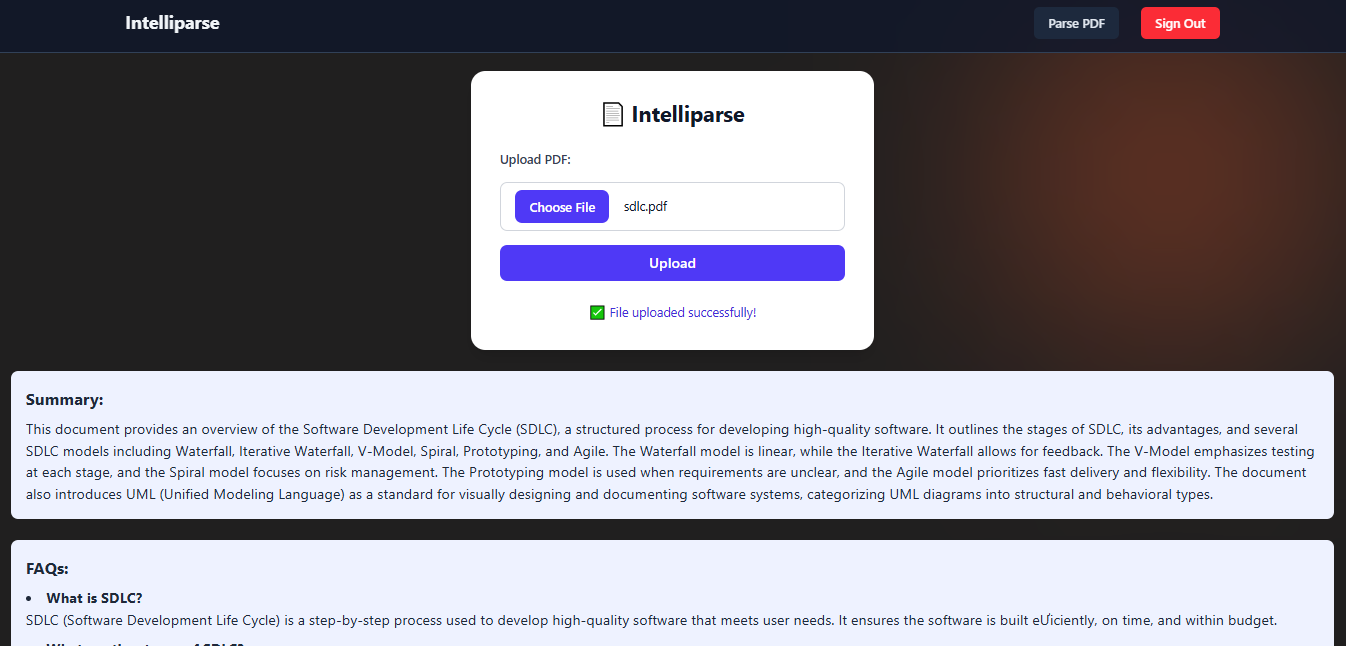
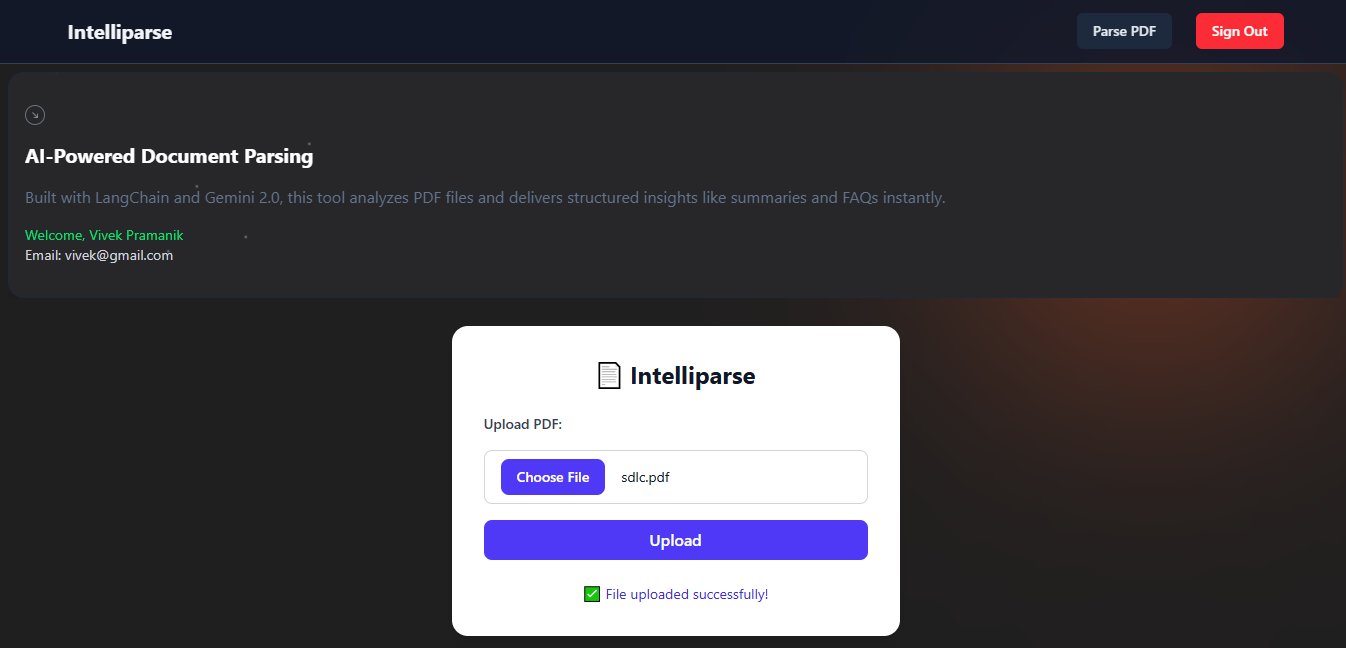
refactor: accessing user detaills from frontend

diff --git a/frontend/src/MeteorsDemo.jsx b/frontend/src/MeteorsDemo.jsx
@@ -1,44 +1,69 @@
-import React from "react";
+import React, { useEffect, useState } from "react";
+import axios from "axios";
 import { Meteors } from "./Meteors";
 
+axios.defaults.withCredentials = true; // Send cookies in every request
+
 export function MeteorsDemo() {
+  const [profile, setProfile] = useState(null);
+  const [error, setError] = useState("");
+
+  useEffect(() => {
+    // Fetch profile on mount
+    const fetchProfile = async () => {
+      try {
+        const res = await axios.get("http://localhost:3000/api/profile"); // Update port if needed
+        setProfile(res.data);
+      } catch (err) {
+        setError("You are not logged in");
+        console.error(err);
+      }
+    };
+
+    fetchProfile();
+  }, []);
+
   return (
     <div className="">
       <div className="relative m-2">
-        <div
-          className="absolute inset-0 h-full w-full scale-[0.80] transform rounded-full bg-red-500 bg-gradient-to-r from-blue-500 to-teal-500 blur-3xl" />
-        <div
-          className="relative flex h-full flex-col items-start justify-end overflow-hidden rounded-2xl border border-gray-800 bg-gray-900 px-4 py-8 shadow-xl">
-          <div
-            className="mb-4 flex h-5 w-5 items-center justify-center rounded-full border border-gray-500">
+        <div className="absolute inset-0 h-full w-full scale-[0.80] transform rounded-full bg-red-500 bg-gradient-to-r from-blue-500 to-teal-500 blur-3xl" />
+        <div className="relative flex h-full flex-col items-start justify-end overflow-hidden rounded-2xl border border-gray-800 bg-zinc-800 px-4 py-8 shadow-xl">
+          <div className="mb-4 flex h-5 w-5 items-center justify-center rounded-full border border-gray-500">
             <svg
               xmlns="http://www.w3.org/2000/svg"
               fill="none"
               viewBox="0 0 24 24"
               strokeWidth="1.5"
               stroke="currentColor"
-              className="h-2 w-2 text-gray-300">
+              className="h-2 w-2 text-gray-300"
+            >
               <path
                 strokeLinecap="round"
                 strokeLinejoin="round"
-                d="M4.5 4.5l15 15m0 0V8.25m0 11.25H8.25" />
+                d="M4.5 4.5l15 15m0 0V8.25m0 11.25H8.25"
+              />
             </svg>
           </div>
 
           <h1 className="relative z-50 mb-4 text-xl font-bold text-white">
-              AI-Powered Document Parsing
+            AI-Powered Document Parsing
           </h1>
 
           <p className="relative z-50 mb-4 text-base font-normal text-slate-500">
-             Built with LangChain and Gemini 2.0, this tool analyzes PDF files and delivers structured insights like summaries and FAQs instantly.
+            Built with LangChain and Gemini 2.0, this tool analyzes PDF files
+            and delivers structured insights like summaries and FAQs instantly.
           </p>
 
-          {/* <button className="rounded-lg border border-gray-500 px-4 py-1 text-gray-300">
-            Explore
-          </button> */}
+          {profile ? (
+            <div className="text-white">
+              <p className="text-sm text-green-400">Welcome, {profile.firstname} {profile.lastname}</p>
+              <p className="text-sm text-gray-300">Email: {profile.email}</p>
+            </div>
+          ) : (
+            <p className="text-sm text-red-400">{error}</p>
+          )}
 
-          {/* Meaty part - Meteor effect */}
-          <Meteors number={20} />
+          <Meteors number={50} />
         </div>
       </div>
     </div>

diff --git a/README.md b/README.md
@@ -97,3 +97,4 @@ npm run dev
 ![alt text](image-1.png)
 ![alt text](image-2.png)
 ![alt text](image-3.png)
+![alt text](image-4.png)
